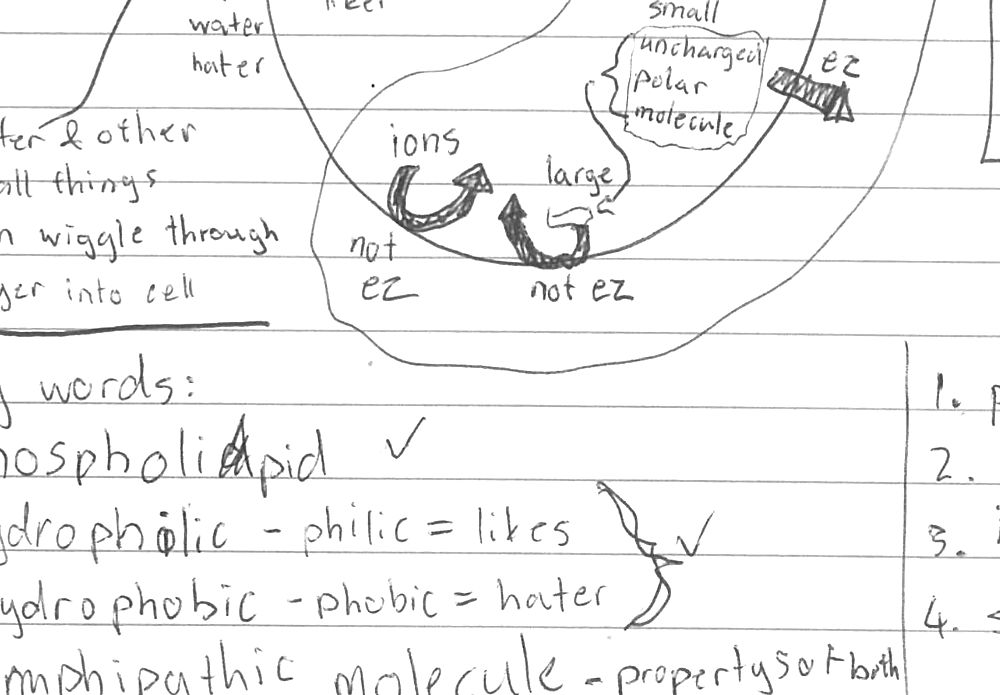
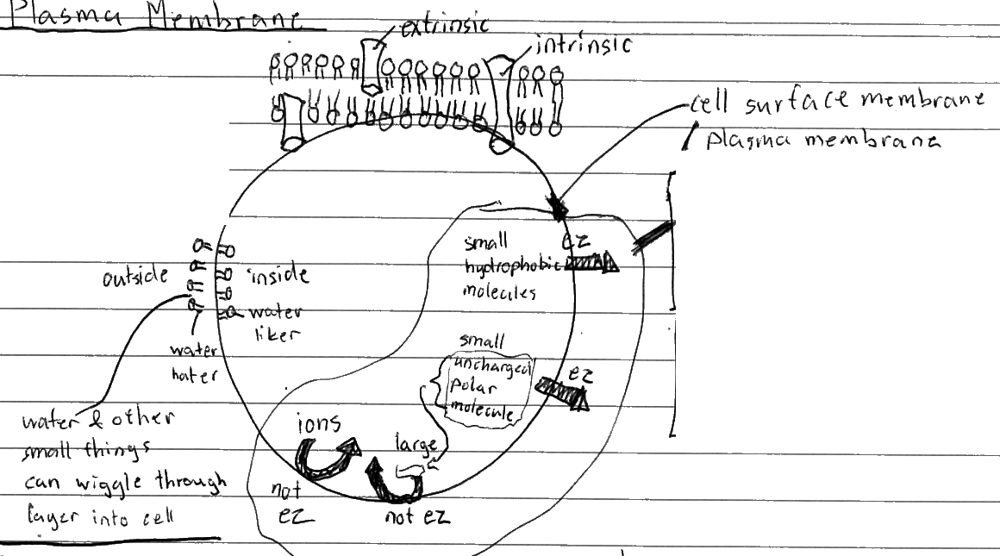
Plasma membrane notes checked against the notebook page; drawings re-cropped
- Re-cropped the membrane, micelle and phospholipid drawings from the full page photo
  (the free reader's crops were off), with paper lines and show-through cleaned up.
- Fixed what the reader got wrong: the ions/permeability box was on Micelle, 'steroids,
  glycolipids' belonged to amphipathic molecules, added the membrane's four parts and the
  'small things wiggle through' line, fixed the extrinsic/intrinsic points.

Claude-Session: https://claude.ai/code/session_01CqFkspLbgbr14JNBsM85ut

Changed region(s): [[0.0, 0.0, 1.0, 1.0], [0.93, 0.3669, 1.0, 0.3975]]

diff --git a/data.js b/data.js
@@ -218,11 +218,16 @@ export const STARTER = {
           "title": "Plasma membrane",
           "definition": "The cell surface membrane.",
           "notes": [
-            "Also called the plasma membrane"
+            "Also called the cell surface membrane",
+            "Made of: 1. phospholipid bilayer, 2. transmembrane proteins, 3. interior protein, 4. surface markers",
+            "Water & other small things can wiggle through the layer into the cell",
+            "Small hydrophobic molecules and small uncharged polar molecules get through easily (\"ez\")",
+            "Ions & large uncharged polar molecules need special ways to get in & out, while the others can squeeze through",
+            "Cholesterol makes the membrane more or less flexible – lets things in & out easier"
           ],
           "found": "",
           "diagram": "membrane",
-          "image": ""
+          "image": "img/notes/phospholipid-bilayer.jpg"
         },
         {
           "id": "mwlfuym8cnhp8",
@@ -247,9 +252,9 @@ export const STARTER = {
         {
           "id": "mwlfuym8nla8s",
           "title": "Integral protein",
-          "definition": "A protein that is part of the membrane.",
+          "definition": "A protein that goes all the way through both layers of the membrane.",
           "notes": [
-            "Also called intrinsic protein - goes all the way through both layers"
+            "Also called an intrinsic protein (intrinsic = inside)"
           ],
           "found": "",
           "diagram": "",
@@ -258,9 +263,9 @@ export const STARTER = {
         {
           "id": "mwlfuym8qccqj",
           "title": "Extrinsic protein",
-          "definition": "A protein that is part of the way into the membrane, through 1 layer.",
+          "definition": "A protein that goes part of the way into the membrane, through 1 layer.",
           "notes": [
-            "Also called extrinsic - outside"
+            "Extrinsic = outside"
           ],
           "found": "",
           "diagram": "",
@@ -269,13 +274,11 @@ export const STARTER = {
         {
           "id": "mwlfuym8ph1nr",
           "title": "Phospholipid bilayer",
-          "definition": "A structure made of phospholipids arranged in a bilayer.",
+          "definition": "Phospholipids arranged in two layers – the basic structure of the membrane.",
           "notes": [
-            "Fluid mosaic model",
-            "Globular proteins in between",
-            "Cholesterol makes membrane more or less flexible - lets things in & out easier",
-            "Others are: - steroids - glycolipids",
-            "Parts (from my diagram): outside, inside, water, water, water, small hydrophobic molecules, small hydrophilic polar molecule, ions, large polar molecules, ions, large"
+            "Fluid mosaic model: phospholipids arranged in a bilayer, with globular proteins in between",
+            "Heads (hydrophilic, \"water liker\") face the water on the outside and inside; tails (hydrophobic, \"water hater\") face each other in the middle",
+            "Parts (from my diagram): extrinsic and intrinsic proteins, outside, inside, water liker, water hater"
           ],
           "found": "",
           "diagram": "",
@@ -286,18 +289,21 @@ export const STARTER = {
           "title": "Micelle",
           "definition": "A structure formed by amphipathic molecules.",
           "notes": [
-            "Ions & large anchored polar molecules need special ways to get in & out, while the others can squeeze through"
+            "A ball of phospholipids in water: heads face the water, tails hide in the middle (from my diagram)"
           ],
           "found": "",
           "diagram": "",
-          "image": "img/notes/micelle.jpg"
+          "image": "img/notes/micelle.jpg",
+          "filled": true
         },
         {
           "id": "mwlfuym8u12b5",
           "title": "Amphipathic molecule",
           "definition": "A molecule that has both hydrophilic & hydrophobic properties.",
           "notes": [
-            "Properties: - hydrophilic = polar molecule - hydrophobic = non-polar molecule"
+            "Contain both hydrophilic & hydrophobic properties",
+            "Others are steroids and glycolipids",
+            "Phospholipid: head = hydrophilic (polar molecule), tails = hydrophobic (non-polar molecule)"
           ],
           "found": "",
           "diagram": "",
@@ -306,9 +312,10 @@ export const STARTER = {
         {
           "id": "mwlfuym8olj2y",
           "title": "Hydrophilic",
-          "definition": "Having an affinity for water.",
+          "definition": "Water-loving (\"water liker\").",
           "notes": [
-            "philic = likes"
+            "philic = likes",
+            "Hydrophilic = polar molecule"
           ],
           "found": "",
           "diagram": "",
@@ -317,9 +324,10 @@ export const STARTER = {
         {
           "id": "mwlfuym8mqmuc",
           "title": "Hydrophobic",
-          "definition": "Having an aversion to water.",
+          "definition": "Water-hating (\"water hater\").",
           "notes": [
-            "phobic = hates"
+            "phobic = hater",
+            "Hydrophobic = non-polar molecule"
           ],
           "found": "",
           "diagram": "",

diff --git a/sw.js b/sw.js
@@ -1,6 +1,6 @@
 // Service worker: lets the installed app open with no internet.
 // Network first (so updates show straight away), saved copy when offline. Bump CACHE on each release.
-const CACHE = 'bio-study-v12';
+const CACHE = 'bio-study-v13';
 const FILES = ['./', 'index.html', 'style.css', 'app.js', 'data.js', 'diagrams.js', 'presets.js', 'refs.js', 'manifest.webmanifest',
   'icons/icon.svg', 'img/animal-cell.jpg', 'img/er.jpg', 'img/golgi.jpg', 'img/lysosome.jpg', 'img/mitochondria.jpg', 'img/ribosome.jpg', 'img/notes/phospholipid-bilayer.jpg', 'img/notes/micelle.jpg', 'img/notes/amphipathic-molecule.jpg', 'img/ref/animal-cell.svg', 'img/ref/plant-cell.svg', 'img/ref/mitochondrion.svg', 'img/ref/nucleus.svg', 'img/ref/endomembrane.svg', 'img/ref/golgi.svg', 'img/ref/ribosome.svg', 'img/ref/chloroplast.svg', 'img/ref/peroxisome.svg', 'icons/icon-192.png', 'icons/icon-512.png'];
 
